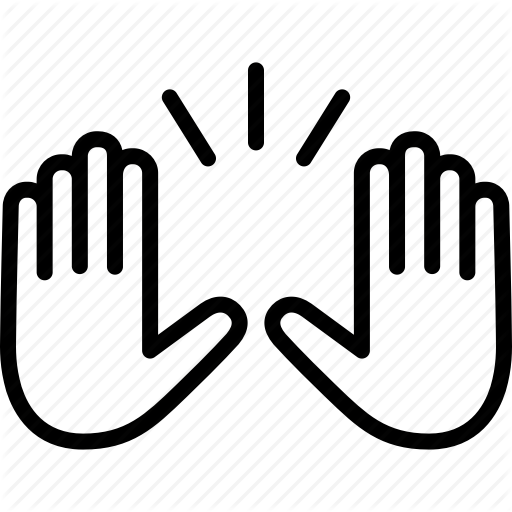
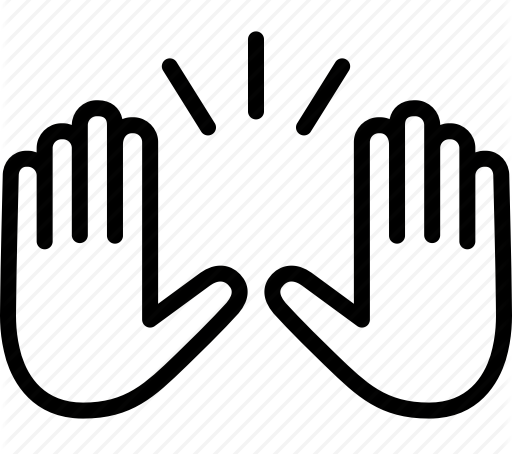
add worship hands for user own posts

diff --git a/components/post/PostListItem.js b/components/post/PostListItem.js
@@ -75,19 +75,45 @@ class PostListItem extends Component {
     this.props.post.sendPijn({ postId, author, currentDate, user });
   }
 
-  render() {
-    const { redirect, post } = this.props;
-    const { user, author, content, timestamp, createdOn, index } = post;
-    const { postId, pijnSentToday } = post;
-    const userId = user.uid;
+  postActionButtons({ postId, author, currentDate, user }) {
+    const { pijnSentToday } = this.props.post;
+    const { actionsViewStyle, worshipHandsInactive, worshipHandsActive } = styles;
 
+    return (
+      <View style={actionsViewStyle}>
+        <ActionButton
+          imageSource={require('../../assets/images/pijn.png')}
+          iconStyle={{ height: 24, width: 26 }}
+          onPress={() => this.sendPijn({ postId, author, currentDate, user })}
+          disabled={pijnSentToday}
+        />
+        <ActionButton
+          imageSource={require('../../assets/images/comment.png')}
+          onPress={this.goToComments}
+        />
+        {user.uid === author.id ? (
+            <ActionButton
+              imageSource={require('../../assets/images/praise.png')}
+              iconStyle={worshipHandsInactive}
+            />
+          ) : (
+            <ActionButton
+              imageSource={require('../../assets/images/message.png')}
+            />
+          )
+        }
+      </View>
+    );
+  }
+
+  render() {
+    const { containerStyle, contentStyle, dividerStyle } = styles;
+    const { redirect, post } = this.props;
+    const { user, author, content, timestamp, createdOn, index, postId } = post;
+    const userId = user.uid;
     const currentDate = new Date(
       new Date().getFullYear(), new Date().getMonth(), new Date().getDate()
     );
-
-    const {
-      containerStyle, contentStyle, dividerStyle, actionsViewStyle,
-    } = styles;
 
     return (
       <Card containerStyle={containerStyle}>
@@ -111,21 +137,7 @@ class PostListItem extends Component {
           notesPress={this.goToPostNotes}
         />
         <Divider style={dividerStyle} />
-        <View style={actionsViewStyle}>
-          <ActionButton
-            imageSource={require('../../assets/images/pijn.png')}
-            iconStyle={{ height: 24, width: 26 }}
-            onPress={() => this.sendPijn({ postId, author, currentDate, user })}
-            disabled={pijnSentToday}
-          />
-          <ActionButton
-            imageSource={require('../../assets/images/comment.png')}
-            onPress={this.goToComments}
-          />
-          <ActionButton
-            imageSource={require('../../assets/images/message.png')}
-          />
-        </View>
+        {this.postActionButtons({ postId, author, currentDate, user })}
       </Card>
     );
   }
@@ -154,6 +166,17 @@ const styles = {
     justifyContent: 'space-between',
     paddingLeft: 60,
     paddingRight: 60
+  },
+  worshipHandsInactive: {
+    height: 24,
+    width: 27,
+    marginLeft: -1.5,
+  },
+  worshipHandsActive: {
+    height: 24,
+    width: 27,
+    marginLeft: -1.5,
+    tintColor: '#50C35C'
   },
 };
 

diff --git a/assets/colors.js b/assets/colors.js
@@ -5,3 +5,5 @@ export const buttonBlue = '#007aff';
 
 export const disabledGray = '#D3D3D3';
 export const lightTextGray = '#909090';
+
+export const greenActive = '#50C35C';
